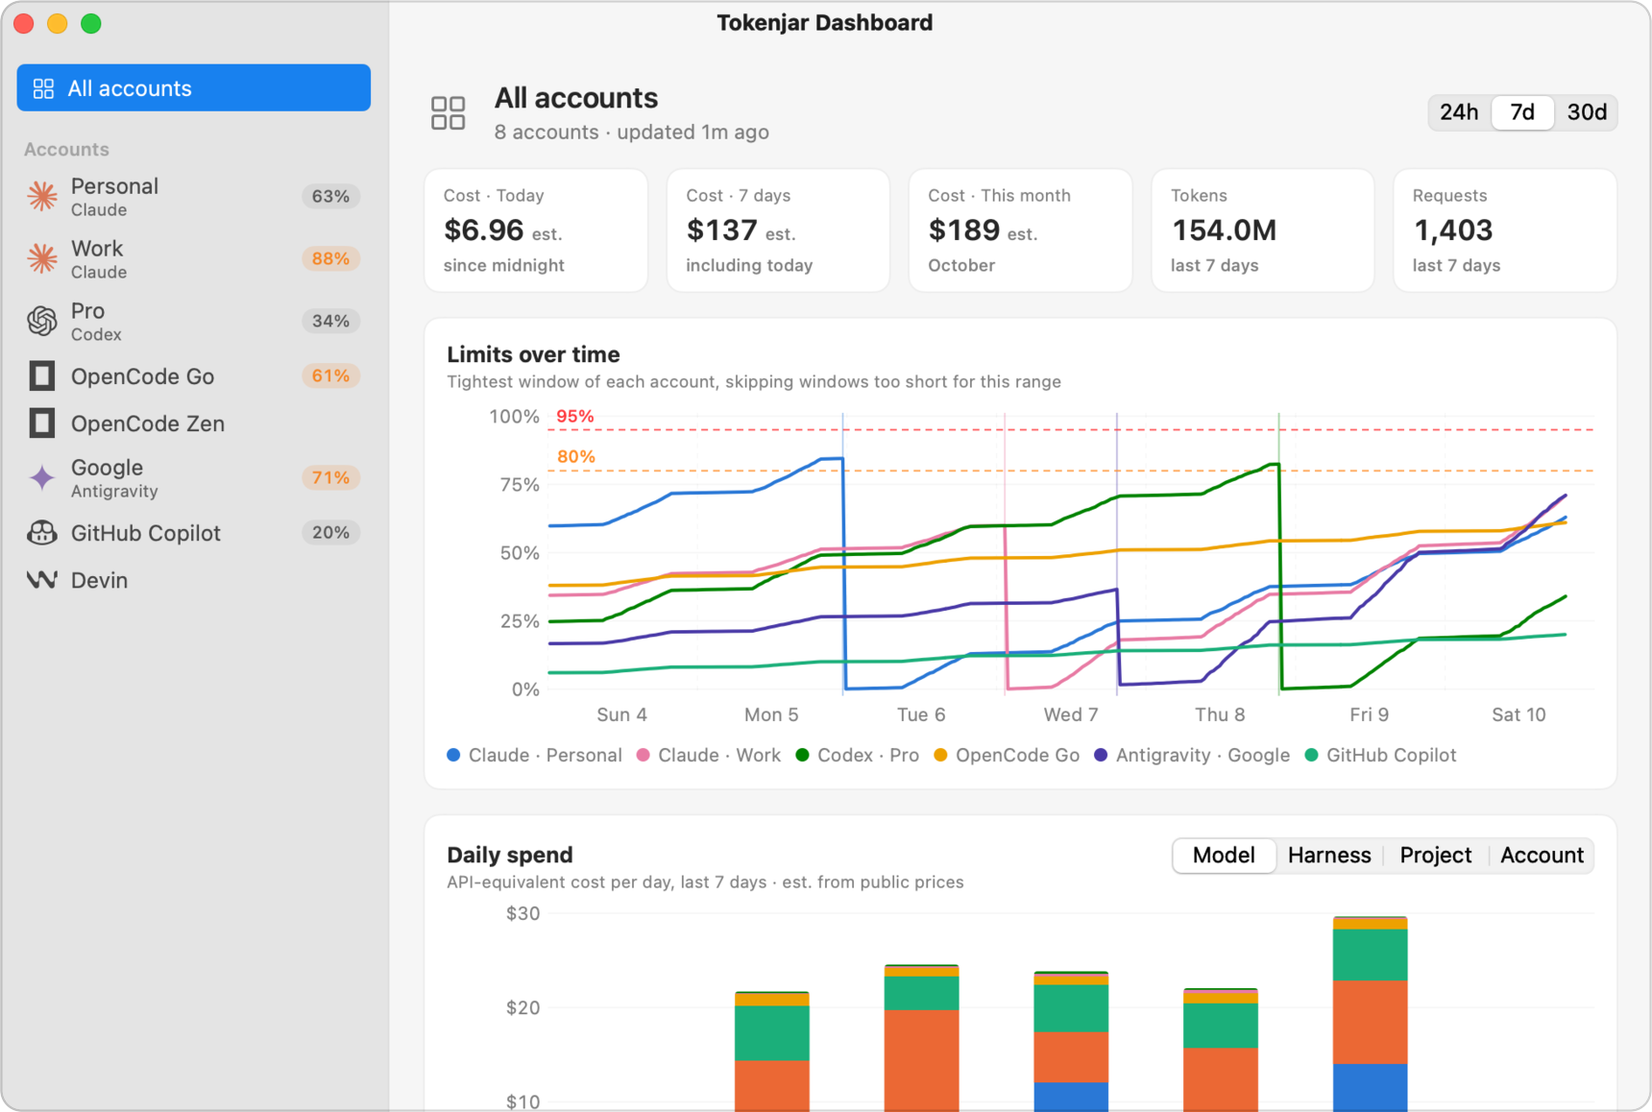
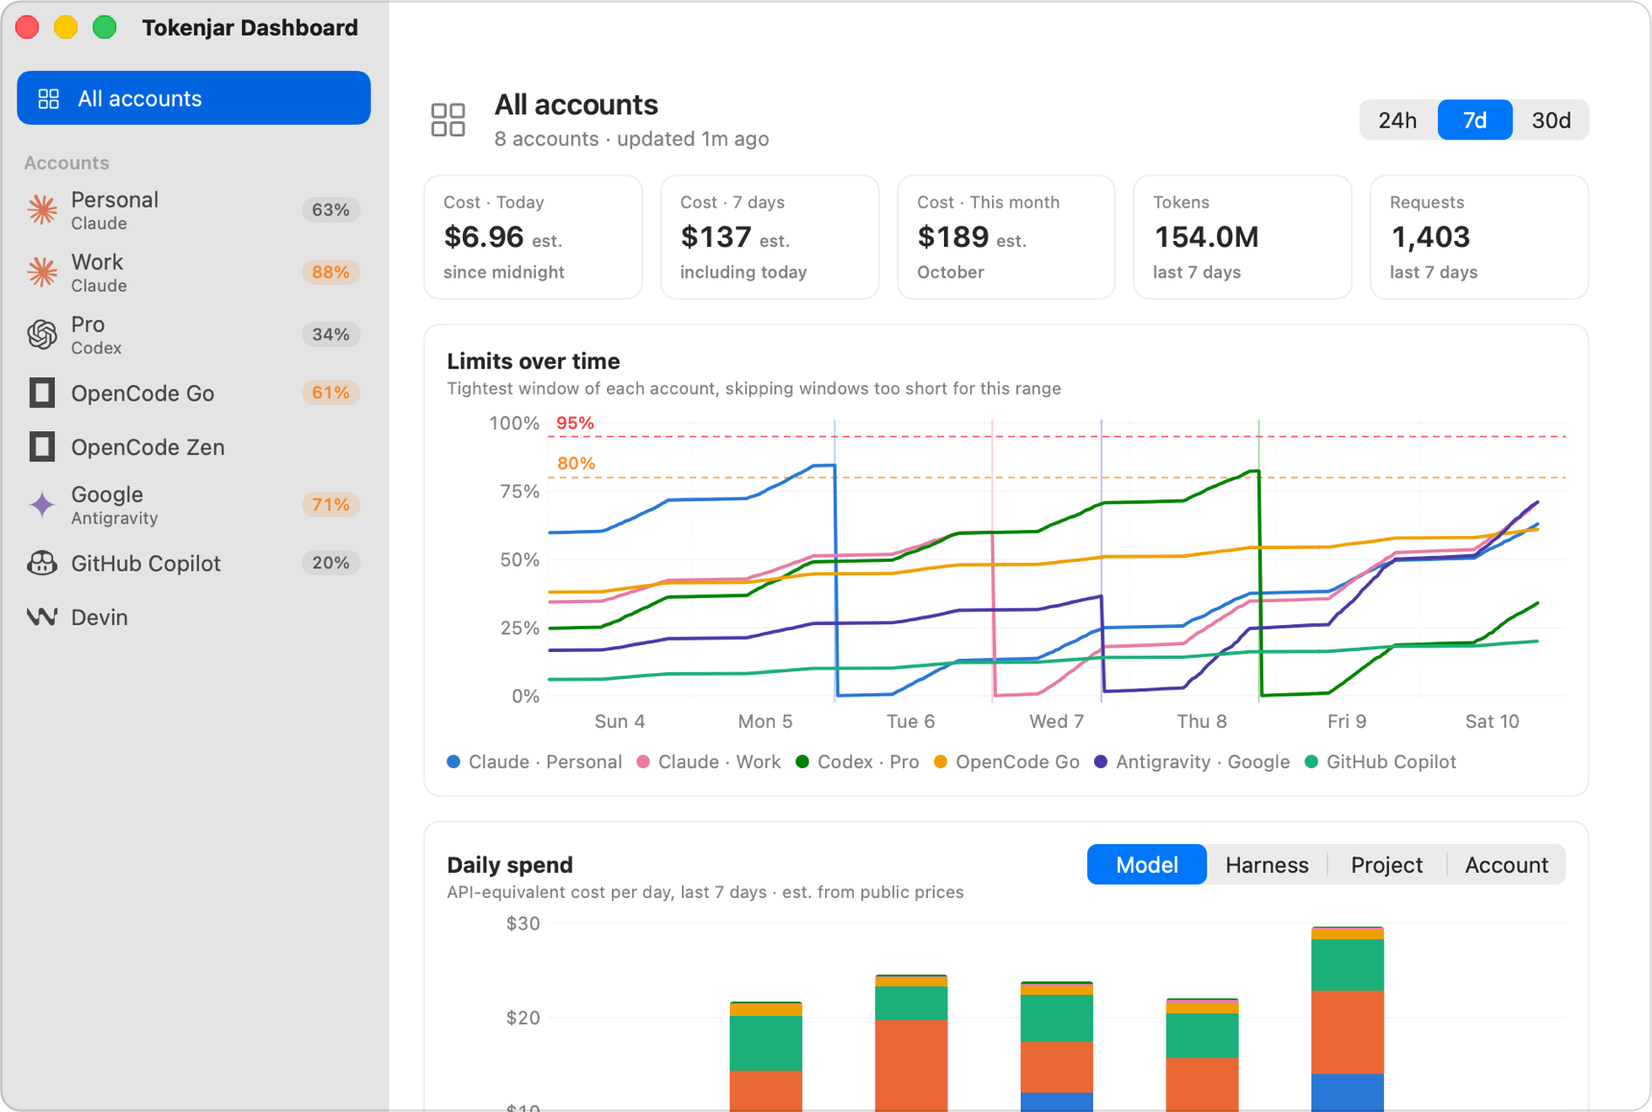
docs(readme): cover spend limits, the daily budget and account management
The README now describes what changed in the app: an Enterprise seat billed per use and its spend limit, the opt-in daily budget and its notification, the menu bar's amount option, the popover's account order and how it closes, naming, reordering and the actions menu in Settings, and what to do when Claude Code was installed with npm under fnm or nvm. A new image shows a seat billed per use with both bars, drawn from a new preview model with made-up numbers.

The popover, dashboard and Settings images are re-rendered together from the preview data, since this macOS draws the window backgrounds differently and the Settings list has changed. docs/configuration.md lists the new dailyBudget, menuBar.spendDisplay and accountOrder fields and says what paceDays does now, and docs/development.md lists the new image and how the images are framed.

diff --git a/Sources/Tokenjar/App/WindowRenderer.swift b/Sources/Tokenjar/App/WindowRenderer.swift
@@ -51,6 +51,8 @@ private final class RenderSession {
         /// Status pages reporting a problem: one kind of card row each, and only a Copilot outage under "All clear".
         var incident: AppModel?
         var allClearOutage: AppModel?
+        /// A seat billed per use, with its spend limit and a daily budget.
+        var spendLimit: AppModel?
         var menuBar: [(name: String, state: MenuBarState)]
         var plans: [(name: String, model: AppModel)] = []
         /// Plan rows with usage history, the only ones whose dashboard page has more than All to show.
@@ -110,6 +112,9 @@ private final class RenderSession {
             if let limitHit = data.limitHit {
                 renderPopover(limitHit, screen: "popover-limit-hit", appearance: appearance, suffix: suffix)
             }
+            if let spendLimit = data.spendLimit {
+                renderPopover(spendLimit, screen: "popover-spend-limit", appearance: appearance, suffix: suffix)
+            }
             if let incident = data.incident {
                 renderPopover(incident, screen: "popover-incident", appearance: appearance, suffix: suffix)
                 renderSettings(incident, opening: nil, appearance: appearance, suffix: suffix) { _ in [Step(screen: "settings-general-status") {}] }
@@ -147,8 +152,9 @@ private final class RenderSession {
         let outages = [offline, noAnswer, partialOutage, settingsUnloaded]
         let limitHit = AppModel.previewLimitHit()
         let incident = AppModel.previewIncident(), allClearOutage = AppModel.previewAllClearOutage()
+        let spendLimit = AppModel.previewSpendLimit()
         let plans = PreviewPlans.pages(now: model.now)
-        for preview in [model, states, empty, configError, short, limitHit, incident, allClearOutage] + outages + plans.map(\.model) {
+        for preview in [model, states, empty, configError, short, limitHit, incident, allClearOutage, spendLimit] + outages + plans.map(\.model) {
             preview.secrets = SessionSecretStore(InMemorySecretStore())
         }
         let slots = SnapshotRenderer.slotStates(now: model.now).map { (name: "slot-\($0.name)", state: $0.state) }
@@ -159,7 +165,7 @@ private final class RenderSession {
         return RenderData(
             model: model, states: states, empty: empty, configError: configError, short: short,
             offline: offline, noAnswer: noAnswer, partialOutage: partialOutage, settingsUnloaded: settingsUnloaded, limitHit: limitHit,
-            incident: incident, allClearOutage: allClearOutage,
+            incident: incident, allClearOutage: allClearOutage, spendLimit: spendLimit,
             menuBar: [("preview", model.menuBarState), ("states", states.menuBarState)] + outageStrips + slots + plans.map { ($0.name, $0.model.menuBarState) },
             plans: plans, planHistory: Set(PreviewPlans.rows.filter(\.history).map(\.id))
         )

diff --git a/Sources/Tokenjar/App/PreviewData.swift b/Sources/Tokenjar/App/PreviewData.swift
@@ -544,3 +544,48 @@ struct PreviewRandom {
         return Double(state >> 11) / Double(1 << 53)
     }
 }
+
+extension AppModel {
+    /// A seat billed per use, with a spend limit and the recommended daily budget on, for the README's spend-limit image.
+    /// $520 of $1,500 spent, $490 of it before today.
+    static func previewSpendLimit(now: Date = Date(timeIntervalSince1970: 1_791_660_000)) -> AppModel {
+        let model = AppModel(paths: .preview)
+        model.now = now
+        model.popoverNow = now
+        model.lastRefreshAt = now.addingTimeInterval(-60)
+        model.config = AppConfig(accounts: [AccountConfig(id: "claude-company", provider: .claude, label: "Company", dailyBudget: DailyBudget())])
+        model.previewMode = true
+
+        // This cycle ends 2026-11-01 00:00 UTC.
+        let resetsAt = Date(timeIntervalSince1970: 1_793_491_200)
+        let minutes = UsageWindow.monthMinutes(endingAt: resetsAt) ?? 44_640
+        let cycleStart = resetsAt.addingTimeInterval(-Double(minutes) * 60)
+        let limit = 1_500.0, spent = 520.0, spentBeforeToday = 490.0
+        let window = UsageWindow(
+            id: UsageWindow.spendCapID, label: "Spend limit", usedPercent: spent / limit * 100, windowMinutes: minutes, resetsAt: resetsAt
+        )
+        let snapshot = UsageSnapshot(
+            accountID: "claude-company", provider: .claude, plan: "Enterprise (usage-based)", windows: [window],
+            money: [MoneyLine(label: "Extra usage", amount: spent, limit: limit)], fetchedAt: now.addingTimeInterval(-60), source: "claude CLI"
+        )
+        model.statuses[snapshot.accountID] = AccountStatus(snapshot: snapshot, error: nil, lastAttempt: snapshot.fetchedAt)
+
+        // Hourly samples that climb to $490 by the end of yesterday and to $520 now.
+        let todayStart = Calendar.current.startOfDay(for: now)
+        var samples: [WindowSample] = []
+        var time = cycleStart
+        while time <= now {
+            let amount = time < todayStart
+                ? spentBeforeToday * time.timeIntervalSince(cycleStart) / todayStart.timeIntervalSince(cycleStart)
+                : spentBeforeToday + (spent - spentBeforeToday) * time.timeIntervalSince(todayStart) / now.timeIntervalSince(todayStart)
+            samples.append(WindowSample(
+                accountID: snapshot.accountID, windowID: window.id, timestamp: time, usedPercent: amount / limit * 100, resetsAt: resetsAt
+            ))
+            time = time.addingTimeInterval(3_600)
+        }
+        let store = InMemoryUsageStore()
+        store.addSamples(samples)
+        model.store = store
+        return model
+    }
+}

diff --git a/Tests/TokenjarTests/App/PreviewDataTests.swift b/Tests/TokenjarTests/App/PreviewDataTests.swift
@@ -6,7 +6,7 @@ import TokenjarCore
 @MainActor
 struct PreviewDataTests {
     private static var previewModels: [AppModel] {
-        [AppModel.preview(), .previewStates(), .previewEmpty(), .previewLimitHit(), .previewIncident(), .previewAllClearOutage()]
+        [AppModel.preview(), .previewStates(), .previewEmpty(), .previewLimitHit(), .previewIncident(), .previewAllClearOutage(), .previewSpendLimit()]
             + PreviewPlans.pages().map(\.model)
     }
 
@@ -16,6 +16,19 @@ struct PreviewDataTests {
             #expect(model.paths.home.path == "/Users/you")
             #expect(model.paths.configFile.path == "/Users/you/.config/tokenjar/config.json")
         }
+    }
+
+    /// The README's spend-limit image shows both bars, with today under its budget.
+    @Test func theSpendLimitPreviewShowsASpendLimitAndAToday() throws {
+        let model = AppModel.previewSpendLimit()
+        let account = try #require(model.config.accounts.first)
+        let snapshot = try #require(model.status(for: account).snapshot)
+        #expect(snapshot.windows.map(\.id) == [UsageWindow.spendCapID])
+        #expect(snapshot.spendLimitMoney?.limit == 1_500)
+        let today = try #require(model.dailySpend(for: account, snapshot: snapshot, now: model.popoverNow))
+        #expect(today.isRecommended)
+        #expect(today.spent > 0)
+        #expect(!today.isOver)
     }
 
     @Test func theConfigFileRowShowsThePlaceholderPath() {

diff --git a/README.md b/README.md
@@ -18,7 +18,7 @@ I built it because I did not want a third-party app handling my AI logins. Token
 
 | Provider | Where the numbers come from | Plans it recognizes |
 |---|---|---|
-| Claude | `claude -p /usage`, with hooks and MCP servers off | Pro, Max, Max 5x, Max 20x, Team, Team Premium, Enterprise. API key, Bedrock, Vertex and Foundry logins have no plan limits, so they get cost history only. |
+| Claude | `claude -p /usage`, with hooks and MCP servers off | Pro, Max, Max 5x, Max 20x, Team, Team Premium, Enterprise. An Enterprise seat billed per use has no plan limits, so it shows its monthly spend limit instead. API key, Bedrock, Vertex and Foundry logins have no plan limits, so they get cost history only. |
 | Codex | `codex app-server`, read-only | Free, Go, Plus, Pro, Business, Edu, Enterprise |
 | OpenCode Go | One HTTPS GET to opencode.ai with your opencode key | Go |
 | OpenCode Zen | This month's spend, added up from the local `opencode.db` | Pay as you go |
@@ -30,7 +30,7 @@ The Antigravity reader has never run against a live install. Copilot's endpoint 
 
 ## Using it
 
-The menu bar item shows the used percent of the account with the least room left. By default it turns red at 95% and amber at 80%, or sooner when a window that is at least half used is on pace to run out before it resets. When a window is full it counts down to the reset instead. A slash across the icon means Tokenjar can't refresh right now, because the Mac is offline or no provider answered. Faded numbers are out of date, and a dot means something needs you: a failed check you can fix, or settings that can't be read. Devin and OpenCode Zen never show up there. Settings > General changes both levels and can switch the item to one thin bar per account, or to the icon alone.
+The menu bar item shows the used percent of the account with the least room left. By default it turns red at 95% and amber at 80%, or sooner when a window that is at least half used is on pace to run out before it resets. When a window is full it counts down to the reset instead. A slash across the icon means Tokenjar can't refresh right now, because the Mac is offline or no provider answered. Faded numbers are out of date, and a dot means something needs you: a failed check you can fix, or settings that can't be read. Devin and OpenCode Zen never show up there. An account billed per use counts by its spend limit, like any other limit. Settings > General changes both levels, can switch the item to one thin bar per account or to the icon alone, and can show the amount spent instead of the percent for an account billed per use. That amount is off by default, since anyone near your screen can read it.
 
 <p align="center">
   <picture>
@@ -39,7 +39,16 @@ The menu bar item shows the used percent of the account with the least room left
   </picture>
 </p>
 
-Clicking it opens the popover shown at the top. Each limit window gets a bar with a tick where an even pace would be, and the time until it resets. The line under the bars says how you are tracking, such as "Under pace -6%" or "Runs out ~1d 17h before reset". A failed check says what went wrong and offers the fix. When a limit is full, the header also names the account with the most room left, such as "Codex has room: 5-hour 2% used". When the Mac is offline or no provider answers, the header says so once and the cards keep their last numbers with their age. Command-R refreshes.
+Clicking it opens the popover shown at the top. Each limit window gets a bar with a tick where an even pace would be, and the time until it resets. The line under the bars says how you are tracking, such as "Under pace -6%" or "Runs out ~1d 17h before reset". A failed check says what went wrong and offers the fix. When a limit is full, the header also names the account with the most room left, such as "Codex has room: 5-hour 2% used". When the Mac is offline or no provider answers, the header says so once and the cards keep their last numbers with their age. Command-R refreshes, and a click outside the popover or Escape closes it. The cards follow the order of the accounts in Settings; Settings > General can group them by provider or put the account with the least room left on top.
+
+An Enterprise seat billed per use has one limit, the money it may spend this month. Its card shows that spend limit as a bar with the amount under it and the time until it resets on the 1st, at midnight UTC. Claude's `/usage` does not report that date, so it comes from the calendar month. Turn on Daily budget on the account's page in Settings to add a Today bar: today's spend against what you can spend per day and still end the month under the limit. Type an amount to use a fixed budget instead. The bar keeps counting past 100% to show how far over today is, and you get one notification a day when it goes over. Claude reports only the month's total, so Tokenjar works out today from its own checks: the total now minus the total at its last check before midnight.
+
+<p align="center">
+  <picture>
+    <source media="(prefers-color-scheme: dark)" srcset="docs/images/popover-spend-limit-dark.png">
+    <img src="docs/images/popover-spend-limit-light.png" width="360" alt="A card for a Claude seat billed per use: a spend limit bar at 35% with $520 of $1,500 spent and 21 days to its reset, and a Today bar at 70% with $32 of a recommended $46 for today">
+  </picture>
+</p>
 
 Right-click the menu bar item, or Control-click it, for Refresh Now, Open Dashboard, Settings and Quit Tokenjar. Quitting from that menu, the popover or Command-Q asks first. Hold Option in the menu to quit without being asked.
 
@@ -52,16 +61,16 @@ The dashboard (Command-D) charts each limit over time with its resets and estima
   </picture>
 </p>
 
-Each account gets its own page in Settings with its status, the fix when a check fails, and buttons to check it now or sign in from Terminal.
+Each account gets its own page in Settings with its status, the fix when a check fails, and buttons to check it now or sign in from Terminal. Adding an account asks for its name first. Drag accounts in the list to reorder them, or use the ⋯ button on a row, also on right-click, to rename, hide from the menu bar, move or remove one.
 
 <p align="center">
   <picture>
     <source media="(prefers-color-scheme: dark)" srcset="docs/images/settings-account-dark.png">
-    <img src="docs/images/settings-account-light.png" width="680" alt="An account page in Settings: status, enabled and menu bar switches, the profile folder for a second Claude login, and the command Sign In in Terminal runs">
+    <img src="docs/images/settings-account-light.png" width="680" alt="An account page in Settings: the account list with each provider's logo and a ⋯ button on the selected row, then status, enabled and menu bar switches, the profile folder for a second Claude login, and the command Sign In in Terminal runs">
   </picture>
 </p>
 
-Alerts are local notifications. By default you get one when a window crosses 80% or 95%, when the pace says you will run out before the reset, and when a source stops working. Settings > Alerts changes the levels and has a reset alert, which is off by default. Until you click Allow Banners there, alerts go to Notification Center without a banner.
+Alerts are local notifications. By default you get one when a window crosses 80% or 95%, when the pace says you will run out before the reset, when a source stops working, and, with a daily budget on, the first time a day goes over it. Settings > Alerts changes the levels and has a reset alert, which is off by default. Until you click Allow Banners there, alerts go to Notification Center without a banner.
 
 ## Privacy
 
@@ -136,7 +145,7 @@ The file holds no secrets, only where keys live, so it can sit in a dotfiles rep
 
 ## Troubleshooting
 
-"Can't find the claude command on this Mac" (or codex, agy, gh): Tokenjar does not read your shell's `PATH`. It searches a fixed list of folders, and the account's page in Settings shows which ones. If the CLI lives somewhere else, put its full path under `cliPaths` in the config.
+"Can't find the claude command on this Mac" (or codex, agy, gh): Tokenjar does not read your shell's `PATH`. It searches a fixed list of folders, and the account's page in Settings shows which ones. If the CLI lives somewhere else, put its full path under `cliPaths` in the config. A Claude Code installed with npm under a Node version manager such as fnm or nvm is in none of those folders; `claude install` switches it to Anthropic's native build in `~/.local/bin`, which Tokenjar finds.
 
 No notifications: alerts only come from the installed app, not from `swift run` or a `.build` binary.
 

diff --git a/docs/configuration.md b/docs/configuration.md
@@ -19,7 +19,7 @@ Tokenjar reads `~/.config/tokenjar/config.json` (`$XDG_CONFIG_HOME/tokenjar/conf
 
 ## Fields
 
-`provider` is one of `claude`, `codex`, `opencode-go`, `opencode-zen`, `antigravity`, `copilot`, `devin`. `profileDir` is `CLAUDE_CONFIG_DIR` for Claude, `CODEX_HOME` for Codex, `GH_CONFIG_DIR` for GitHub Copilot (a second GitHub login needs its own gh folder), and opencode's data folder for OpenCode. Other account fields: `enabled`, `showInMenuBar`, `refreshMinutes`, `alertThresholds`, `shortAlertThresholds`, `creditAllowance`, `dashboardURL`. Top-level fields: `refreshMinutes`, `menuBar` (`mode`, `icon`, `warnAt`, `criticalAt`, `showResetCountdownWhenFull`), `alerts`, `cliPaths`, `launchAtLogin`, `paceDays`, `hotkey`. `alerts.shortThresholds` and an account's `shortAlertThresholds` (both for windows of a day or less), an account's `creditAllowance` (AI credits per billing cycle), `paceDays` and `hotkey` are kept in the file but have no effect in this build yet: every window alerts at the account's `alertThresholds`, else `alerts.thresholds`. Every field but `id` and `provider` has a default; [design.md](design.md#config-and-sync) has the full list. Check provider status pages, in Settings > General, is not a config field: it is kept in each Mac's own preferences, so turning it on on one Mac never turns it on for another that shares the file.
+`provider` is one of `claude`, `codex`, `opencode-go`, `opencode-zen`, `antigravity`, `copilot`, `devin`. `profileDir` is `CLAUDE_CONFIG_DIR` for Claude, `CODEX_HOME` for Codex, `GH_CONFIG_DIR` for GitHub Copilot (a second GitHub login needs its own gh folder), and opencode's data folder for OpenCode. Other account fields: `enabled`, `showInMenuBar`, `refreshMinutes`, `alertThresholds`, `shortAlertThresholds`, `creditAllowance`, `dashboardURL`, `dailyBudget`. `dailyBudget` turns on the Today bar of an account billed per use: `{}` uses the recommended amount, `{"amount": 100}` a fixed one in the account's currency, and leaving it out turns it off. Top-level fields: `refreshMinutes`, `menuBar` (`mode`, `icon`, `warnAt`, `criticalAt`, `showResetCountdownWhenFull`, `spendDisplay`), `alerts`, `cliPaths`, `launchAtLogin`, `paceDays`, `hotkey`, `accountOrder`. `menuBar.spendDisplay` is `percent` (the default) or `amount`, what the menu bar shows for an account billed per use. `accountOrder` orders the popover's cards: `manual` (the default, the order of `accounts`), `byProvider` or `tightestFirst`. For either, a value this build does not know reads as the default. `alerts.shortThresholds` and an account's `shortAlertThresholds` (both for windows of a day or less), an account's `creditAllowance` (AI credits per billing cycle) and `hotkey` are kept in the file but have no effect in this build yet: every window alerts at the account's `alertThresholds`, else `alerts.thresholds`. `paceDays` has no Settings control, and pace does not use it yet; set to `workingDays`, it only spreads a recommended daily budget over the working days left. Every field but `id` and `provider` has a default; [design.md](design.md#config-and-sync) has the full list. Check provider status pages, in Settings > General, is not a config field: it is kept in each Mac's own preferences, so turning it on on one Mac never turns it on for another that shares the file.
 
 Never rename an account `id` once it has data: it is the key for history and alerts.
 

diff --git a/docs/development.md b/docs/development.md
@@ -51,9 +51,9 @@ mkdir -p captures && .build/debug/Tokenjar --capture codex > captures/codex.json
 
 ## Preview renders and the README images
 
-Preview renders read no path, region or time zone from your Mac. The accounts, numbers and the fixed date in the preview data are made up. The preview models use a stand-in home folder, `/Users/you`, and the process switches to US English and UTC before it draws, so a render looks the same on any Mac. A render with `--real-data` shows your own config and history, so keep those images to yourself.
+Preview renders read no path, region or time zone from your Mac. The accounts, numbers and the fixed date in the preview data are made up. The preview models use a stand-in home folder, `/Users/you`, and the process switches to US English and UTC before it draws, so a render shows the same data on any Mac. The window backgrounds still follow the macOS version that draws them, so re-render the window images together rather than one alone. A render with `--real-data` shows your own config and history, so keep those images to yourself.
 
-The images in `docs/images/` came from these two commands, then a pass through ImageMagick:
+The images in `docs/images/` came from these two commands, then a pass that resizes them and rounds their corners:
 
 ```sh
 make build
@@ -62,11 +62,12 @@ make build
 ```
 
 - `popover-*.png` is `popover-<theme>.png` from `--render-windows`, kept at 720 px wide.
+- `popover-spend-limit-*.png` is `popover-spend-limit-<theme>.png`, also 720 px wide. `--only popover` renders it too.
 - `dashboard-*.png` is `dashboard-all-default-<theme>.png`, resized to 1720 px wide.
 - `settings-account-*.png` is `settings-account-claude-work-<theme>.png`, resized to 1360 px wide.
 - `menubar-*.png` joins six items from `--render-snapshots` into one strip: `menubar-slot-030`, `menubar-worst`, `menubar-slot-critical` and `menubar-slot-100`, then `menubar-bars` and `menubar-icon`. Those files are Display P3, so they are converted to sRGB first.
 
-The window captures get rounded corners and a hairline edge, and the menu bar strip gets rounded corners only. Each image is saved with no metadata, at about twice the width the README shows it at. The banner, `banner-<theme>.svg`, is a plain SVG built from `Resources/AppIcon.svg` and the shape of the menu bar slot. Its numbers are made up, and it has no provider logos.
+The window captures get rounded corners (24 px on the popovers, 22 px on the windows) and a 2 px edge, white at 16% on dark and black at 16% on light; the menu bar strip gets rounded corners only. Each image is saved with no metadata, at about twice the width the README shows it at. The banner, `banner-<theme>.svg`, is a plain SVG built from `Resources/AppIcon.svg` and the shape of the menu bar slot. Its numbers are made up, and it has no provider logos.
 
 ## Releasing
 
